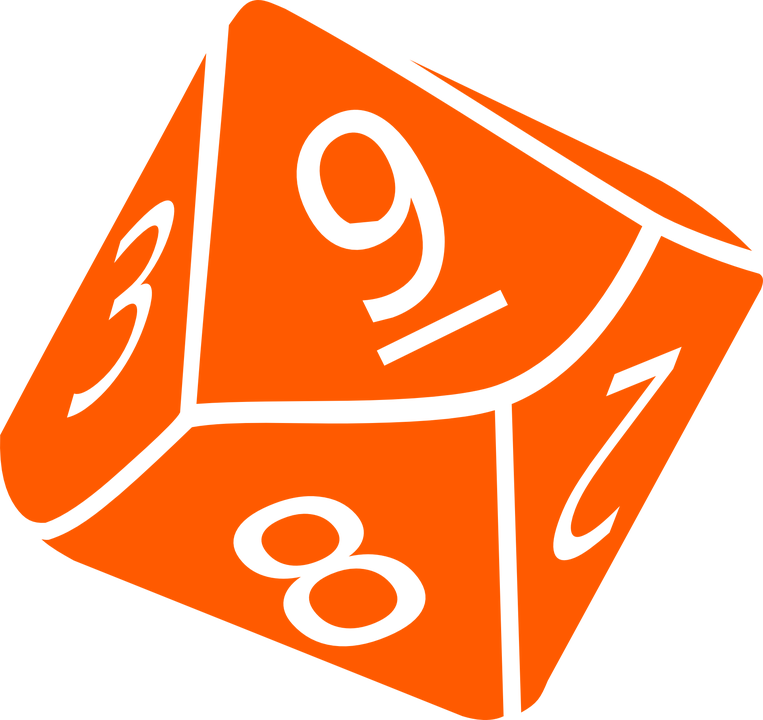
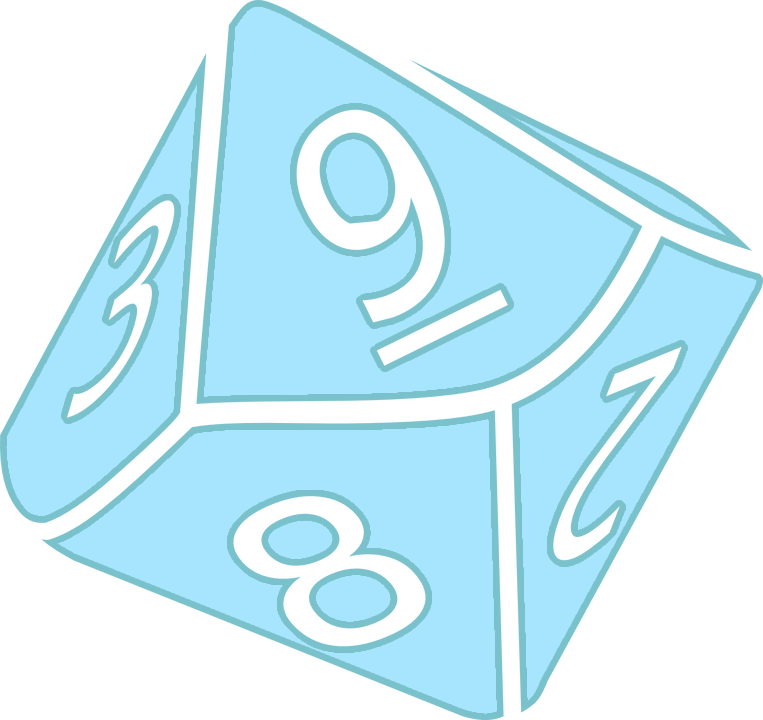
atualizando o icone

diff --git a/css/style.css b/css/style.css
@@ -5,7 +5,7 @@ body{
    font-family: Arial, Helvetica, sans-serif;
    justify-content: center;
    text-align: center;
-   background-color: aliceblue;
+   background-color: rgb(225, 241, 255);
    font-size: 20px;
 }
 

diff --git a/README.md b/README.md
@@ -2,4 +2,4 @@
 
 Um sorteador de uma quantidade de números em determinado intervalo
 
-Github page: https://denislevy76.github.io/Sorteador/ 
+Github pages: https://denislevy76.github.io/Sorteador/ 
